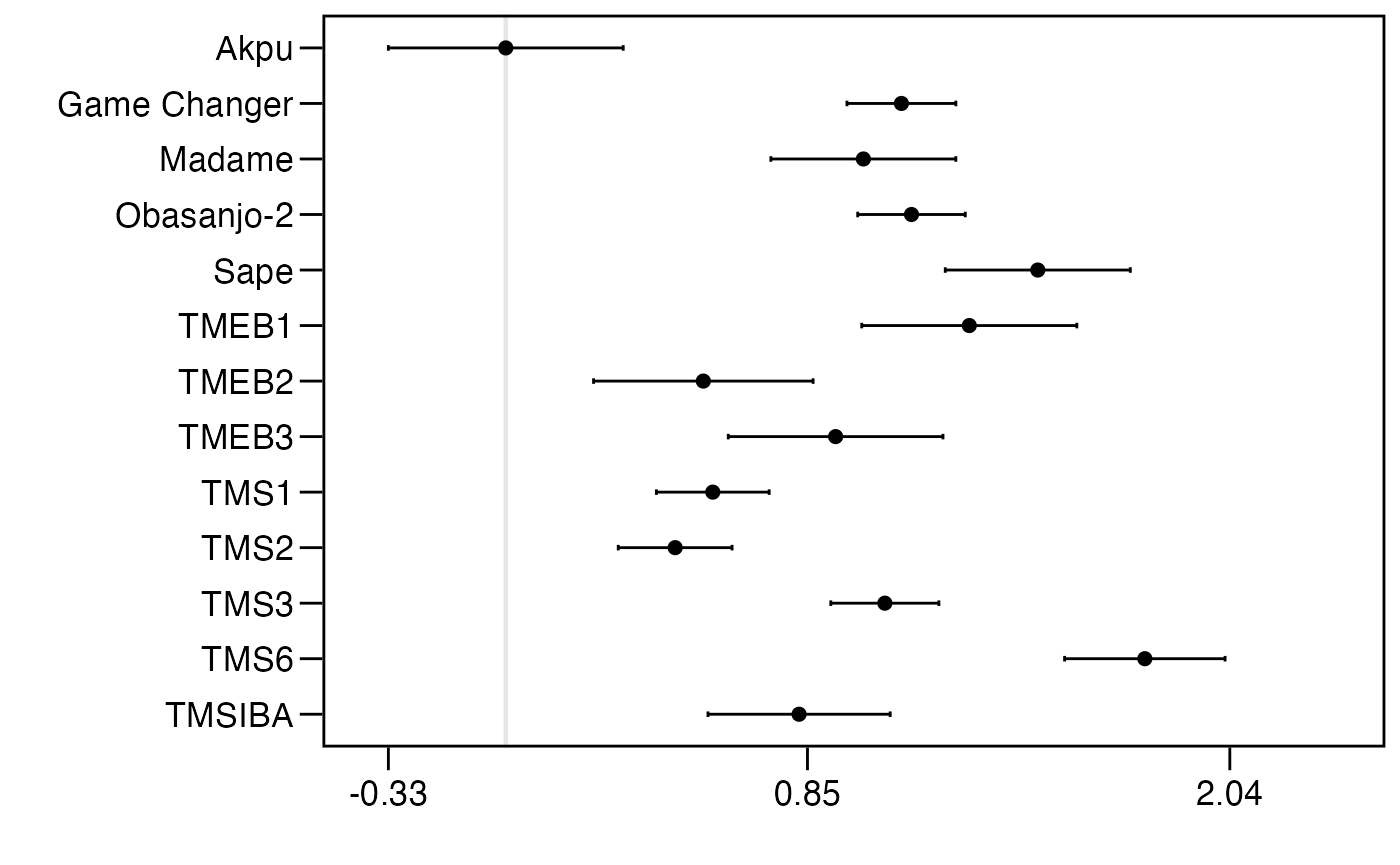
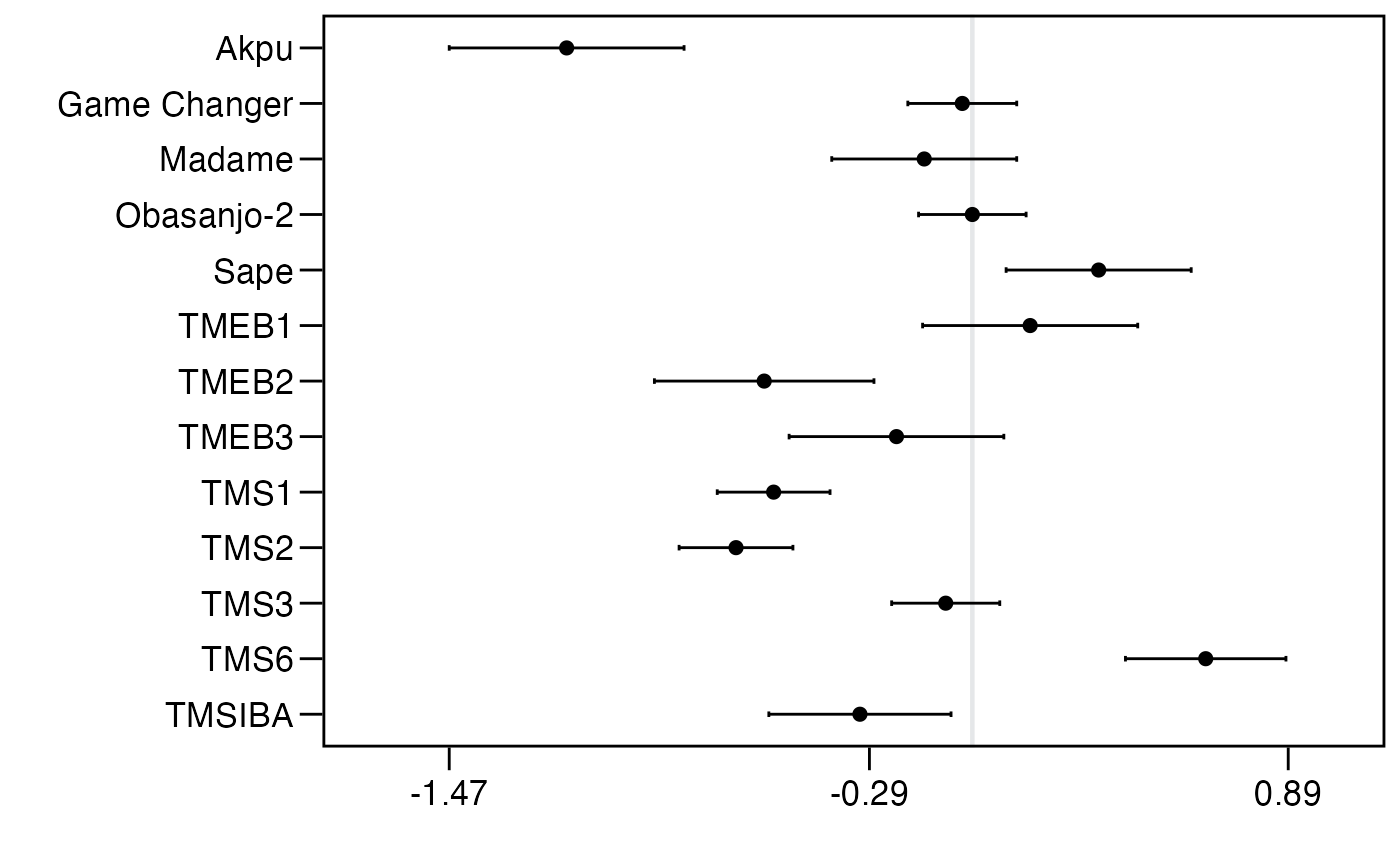
update-cassava-vignette

diff --git a/docs/articles/vignette-2-gari-eba-consumer-testing.html b/docs/articles/vignette-2-gari-eba-consumer-testing.html
@@ -203,13 +203,13 @@ dataset, the pattern for the best and worst rankings is
 <p>Here, we perform some data preparation by defining the column indices
 for the variables with the cassava sample names, the names of varieties
 tested in the study, and the position of “Overall” within the trait
-list.</p>
+list. We set Obasanjo-2 as the check variety.</p>
 <div class="sourceCode" id="cb7"><pre class="downlit sourceCode r">
 <code class="sourceCode R"><span><span class="va">pack</span> <span class="op">=</span> <span class="fu"><a href="https://rdrr.io/r/base/c.html" class="external-link">c</a></span><span class="op">(</span><span class="st">"option_a"</span>, <span class="st">"option_b"</span>, <span class="st">"option_c"</span><span class="op">)</span></span>
 <span></span>
 <span><span class="va">items</span> <span class="op">=</span> <span class="fu"><a href="https://rdrr.io/r/base/sort.html" class="external-link">sort</a></span><span class="op">(</span><span class="fu"><a href="https://rdrr.io/r/base/unique.html" class="external-link">unique</a></span><span class="op">(</span><span class="fu"><a href="https://rdrr.io/r/base/unlist.html" class="external-link">unlist</a></span><span class="op">(</span><span class="va">dat</span><span class="op">[</span><span class="va">pack</span><span class="op">]</span><span class="op">)</span><span class="op">)</span><span class="op">)</span></span>
 <span></span>
-<span><span class="va">ref</span> <span class="op">=</span> <span class="st">"Akpu"</span></span>
+<span><span class="va">check</span> <span class="op">=</span> <span class="st">"Obasanjo-2"</span></span>
 <span></span>
 <span><span class="va">ov</span> <span class="op">=</span> <span class="fu"><a href="https://rdrr.io/r/base/which.html" class="external-link">which</a></span><span class="op">(</span><span class="va">traits</span> <span class="op"><a href="https://rdrr.io/r/base/match.html" class="external-link">%in%</a></span> <span class="st">"Overall"</span><span class="op">)</span></span></code></pre></div>
 </div>
@@ -234,27 +234,33 @@ trait. First, we focus on the overall preference. We use the function
 <code><a href="https://rdrr.io/r/graphics/plot.default.html" class="external-link">plot()</a></code> to visualize the Plackett-Luce estimates as
 <em>log-worth</em> parameters using the argument
 <code>log = TRUE</code>. The argument <code>levels =</code> establishes
-the order of the varieties in the plot. We set Akpu as the
-reference.</p>
+the order of the varieties in the plot.</p>
 <div class="sourceCode" id="cb9"><pre class="downlit sourceCode r">
 <code class="sourceCode R"><span><span class="va">mod</span> <span class="op">=</span> <span class="fu"><a href="https://rdrr.io/r/base/lapply.html" class="external-link">lapply</a></span><span class="op">(</span><span class="va">R</span>, <span class="va">PlackettLuce</span><span class="op">)</span></span>
 <span></span>
 <span><span class="fu"><a href="https://rdrr.io/r/graphics/plot.default.html" class="external-link">plot</a></span><span class="op">(</span><span class="va">mod</span><span class="op">[[</span><span class="va">ov</span><span class="op">]</span><span class="op">]</span>,</span>
-<span>     ref <span class="op">=</span> <span class="va">ref</span>,</span>
+<span>     ref <span class="op">=</span> <span class="va">check</span>,</span>
 <span>     log <span class="op">=</span> <span class="cn">TRUE</span>,</span>
 <span>     levels <span class="op">=</span> <span class="fu"><a href="https://rdrr.io/r/base/rev.html" class="external-link">rev</a></span><span class="op">(</span><span class="va">items</span><span class="op">)</span><span class="op">)</span></span></code></pre></div>
 <p><img src="vignette-2-gari-eba-consumer-testing_files/figure-html/plfit-1.png" width="700"></p>
-<p>The plot shows that all varieties outperform Akpu for overall
-preference. We use the function <code><a href="../reference/reliability.html">reliability()</a></code> to identify
-the probability that each variety outperforms the reference Akpu <span class="citation">[8]</span>. The function returns a data frame with the
+<p>The plot shows that the varieties TMS6, Sape and TMEB1 outperform
+Obasanjo-2 for overall preference. We use the function
+<code><a href="../reference/reliability.html">reliability()</a></code> to identify the improvement achieved by these
+varieties against reference Obasanjo-2 <span class="citation">[8]</span>. The function returns a data frame with the
 reliability estimates, where values above 0.5 indicates that the variety
 outperforms the reference. We plot these results using
 <code><a href="https://ggplot2.tidyverse.org/reference/ggplot.html" class="external-link">ggplot()</a></code>.</p>
 <div class="sourceCode" id="cb10"><pre class="downlit sourceCode r">
-<code class="sourceCode R"><span><span class="va">rel</span> <span class="op">=</span> <span class="fu"><a href="../reference/reliability.html">reliability</a></span><span class="op">(</span><span class="va">mod</span><span class="op">[[</span><span class="va">ov</span><span class="op">]</span><span class="op">]</span>, ref <span class="op">=</span> <span class="st">"Akpu"</span><span class="op">)</span></span>
+<code class="sourceCode R"><span><span class="va">rel</span> <span class="op">=</span> <span class="fu"><a href="../reference/reliability.html">reliability</a></span><span class="op">(</span><span class="va">mod</span><span class="op">[[</span><span class="va">ov</span><span class="op">]</span><span class="op">]</span>, ref <span class="op">=</span> <span class="va">check</span><span class="op">)</span></span>
+<span></span>
+<span><span class="va">rel</span><span class="op">$</span><span class="va">improvement</span> <span class="op">=</span> <span class="fu"><a href="https://rdrr.io/r/base/Round.html" class="external-link">round</a></span><span class="op">(</span><span class="op">(</span><span class="va">rel</span><span class="op">$</span><span class="va">reliability</span> <span class="op">/</span> <span class="fl">0.5</span> <span class="op">-</span> <span class="fl">1</span><span class="op">)</span>, <span class="fl">2</span><span class="op">)</span></span>
+<span></span>
+<span><span class="va">rel</span> <span class="op">=</span> <span class="va">rel</span><span class="op">[</span><span class="fu"><a href="https://rdrr.io/r/base/order.html" class="external-link">order</a></span><span class="op">(</span><span class="va">rel</span><span class="op">$</span><span class="va">improvement</span><span class="op">)</span>, <span class="op">]</span></span>
+<span></span>
+<span><span class="va">rel</span><span class="op">$</span><span class="va">item</span> <span class="op">=</span> <span class="fu"><a href="https://rdrr.io/r/base/factor.html" class="external-link">factor</a></span><span class="op">(</span><span class="va">rel</span><span class="op">$</span><span class="va">item</span>, levels <span class="op">=</span> <span class="va">rel</span><span class="op">$</span><span class="va">item</span><span class="op">)</span></span>
 <span></span>
 <span><span class="fu"><a href="https://ggplot2.tidyverse.org/reference/ggplot.html" class="external-link">ggplot</a></span><span class="op">(</span>data <span class="op">=</span> <span class="va">rel</span>,</span>
-<span>       <span class="fu"><a href="https://ggplot2.tidyverse.org/reference/aes.html" class="external-link">aes</a></span><span class="op">(</span>x <span class="op">=</span> <span class="va">reliability</span>, </span>
+<span>       <span class="fu"><a href="https://ggplot2.tidyverse.org/reference/aes.html" class="external-link">aes</a></span><span class="op">(</span>x <span class="op">=</span> <span class="va">improvement</span>, </span>
 <span>           y <span class="op">=</span> <span class="va">item</span>,</span>
 <span>           fill <span class="op">=</span> <span class="st">"white"</span><span class="op">)</span><span class="op">)</span> <span class="op">+</span></span>
 <span>  <span class="fu"><a href="https://ggplot2.tidyverse.org/reference/geom_bar.html" class="external-link">geom_bar</a></span><span class="op">(</span>stat <span class="op">=</span> <span class="st">"identity"</span>,</span>
@@ -262,21 +268,21 @@ outperforms the reference. We plot these results using
 <span>           position <span class="op">=</span> <span class="st">"dodge"</span>, </span>
 <span>           show.legend <span class="op">=</span> <span class="cn">FALSE</span><span class="op">)</span> <span class="op">+</span></span>
 <span>  <span class="fu"><a href="https://ggplot2.tidyverse.org/reference/scale_manual.html" class="external-link">scale_fill_manual</a></span><span class="op">(</span>values <span class="op">=</span> <span class="st">"#5aae61"</span><span class="op">)</span> <span class="op">+</span></span>
-<span>  <span class="fu"><a href="https://ggplot2.tidyverse.org/reference/geom_abline.html" class="external-link">geom_vline</a></span><span class="op">(</span>xintercept <span class="op">=</span> <span class="fl">0.5</span>,</span>
+<span>  <span class="fu"><a href="https://ggplot2.tidyverse.org/reference/geom_abline.html" class="external-link">geom_vline</a></span><span class="op">(</span>xintercept <span class="op">=</span> <span class="fl">0</span>,</span>
 <span>             colour <span class="op">=</span> <span class="st">"grey40"</span>,</span>
 <span>             linewidth <span class="op">=</span> <span class="fl">1</span><span class="op">)</span> <span class="op">+</span></span>
 <span>  <span class="fu"><a href="https://ggplot2.tidyverse.org/reference/ggtheme.html" class="external-link">theme_classic</a></span><span class="op">(</span><span class="op">)</span> <span class="op">+</span></span>
 <span>  <span class="fu"><a href="https://ggplot2.tidyverse.org/reference/labs.html" class="external-link">labs</a></span><span class="op">(</span>x <span class="op">=</span> <span class="st">"Probability of outperforming"</span>,</span>
 <span>       y <span class="op">=</span> <span class="st">""</span><span class="op">)</span></span></code></pre></div>
 <p><img src="vignette-2-gari-eba-consumer-testing_files/figure-html/reliability-1.png" width="700"></p>
-<p>The reliability estimates shows the TMS6 and Sape as the top-2
-varieties for overall preference. So far, we have focused solely on the
-overall preference. However, there are other traits to assess. The
-function <code>worth_plot()</code> can be used to visually analyze and
-compare variety performance across different traits. The values
-represented in a worth map are <em>log-worth</em> estimates. The
-function can be used with <code>ggplot2</code> functions to improve the
-plot.</p>
+<p>The reliability estimates shows an improvement in overall preference
+of 32% for TMS6, 18% for Sape and 8% for TMEB1.</p>
+<p>So far, we have focused solely on the overall preference. However,
+there are other traits to assess. The function <code>worth_plot()</code>
+can be used to visually analyze and compare variety performance across
+different traits. The values represented in a worth map are
+<em>log-worth</em> estimates. The function can be used with
+<code>ggplot2</code> functions to improve the plot.</p>
 <div class="sourceCode" id="cb11"><pre class="downlit sourceCode r">
 <code class="sourceCode R"><span><span class="fu"><a href="../reference/worth_map.html">worth_map</a></span><span class="op">(</span><span class="va">mod</span>, labels <span class="op">=</span> <span class="va">traits</span><span class="op">)</span> <span class="op">+</span></span>
 <span>  <span class="fu"><a href="https://ggplot2.tidyverse.org/reference/labs.html" class="external-link">labs</a></span><span class="op">(</span>x <span class="op">=</span> <span class="st">""</span>, y <span class="op">=</span> <span class="st">""</span><span class="op">)</span> <span class="op">+</span></span>
@@ -285,11 +291,12 @@ plot.</p>
 <span>                       na.value <span class="op">=</span> <span class="st">"white"</span>, </span>
 <span>                       name <span class="op">=</span> <span class="st">""</span><span class="op">)</span></span></code></pre></div>
 <p><img src="vignette-2-gari-eba-consumer-testing_files/figure-html/worth-1.png" width="700"></p>
-<p>The worth map shows the superiority of TMS6, TMEB2, and Sape across
-the traits. We will return to this analysis later, but for now, let us
-examine the data from the perspective of different groups to consider
-heterogeneity in the participants’ evaluations, as proposed by van Etten
-et al. (2023) <span class="citation">[9]</span>.</p>
+<p>The worth map confirms the superiority of TMS6, Sape and TMEB1 across
+the traits, but also presents Madame among the top varieties for color.
+We will return to this analysis later, but for now, let us examine the
+data from the perspective of different groups to consider heterogeneity
+in the participants’ evaluations, as proposed by van Etten et al. (2023)
+<span class="citation">[9]</span>.</p>
 </div>
 <div class="section level2">
 <h2 id="participants-heterogeneity">Participants’ heterogeneity<a class="anchor" aria-label="anchor" href="#participants-heterogeneity"></a>
@@ -341,7 +348,7 @@ et al. (2024) <span class="citation">[10]</span>. For simplicity, we
 focus here only on the variable “country.”</p>
 <p>Now, returning to the worth map analysis, we can visualize the
 performance of the varieties within the groups. We iterate over the
-groups by subsetting the data in a loop. Within the loop, we create the
+groups by sub-setting the data in a loop. Within the loop, we create the
 plots and store them in a list. Finally, we use the
 <code>patchwork</code> package to display the two worth maps.</p>
 <div class="sourceCode" id="cb16"><pre class="downlit sourceCode r">
@@ -378,12 +385,15 @@ plots and store them in a list. Finally, we use the
 <span><span class="co"># plot the two maps using patchwork</span></span>
 <span><span class="va">trait_plot</span><span class="op">[[</span><span class="fl">1</span><span class="op">]</span><span class="op">]</span> <span class="op">+</span> <span class="va">trait_plot</span><span class="op">[[</span><span class="fl">2</span><span class="op">]</span><span class="op">]</span> <span class="op">+</span> <span class="fu"><a href="https://patchwork.data-imaginist.com/reference/plot_layout.html" class="external-link">plot_layout</a></span><span class="op">(</span>ncol <span class="op">=</span> <span class="fl">1</span><span class="op">)</span></span></code></pre></div>
 <p><img src="vignette-2-gari-eba-consumer-testing_files/figure-html/worth2-1.png" width="700"></p>
-<p>The plots show the superiority of TMS6 and TMEB1 in Nigeria, as well
-as the superiority of Game Changer and Sape in Cameroon. This approach
-helps visually select the best variety overall for each group. Here, I
-propose a selection index approach to calculate weighted estimates and
-derive a selection score that represents the performance of the
-varieties across all traits.</p>
+<p>The segmented analysis reveals contrasting results compared to the
+previous analysis using the full dataset. It highlights the superiority
+of TMS6 and TMEB1 in Nigeria, and Game Changer and Sape in Cameroon.
+This approach provides a visual method to select the best variety
+overall for each group. To account for all traits in a data-driven
+manner when selecting varieties, I propose a selection index approach.
+This method calculates weighted estimates and derives a selection score
+that represents the overall performance of the varieties across all
+traits.</p>
 <p>Suppose we have three varieties with standardized probabilities for
 each trait:</p>
 <table class="table">
@@ -397,8 +407,8 @@ each trait:</p>
 <thead><tr class="header">
 <th>Variety</th>
 <th>Yield (0.5)</th>
-<th>Drought tolerance (0.3)</th>
-<th>Resistance to pests (0.2)</th>
+<th>Marketability (0.3)</th>
+<th>Tolerance to drought (0.2)</th>
 <th>Selection Index Score</th>
 </tr></thead>
 <tbody>
@@ -433,9 +443,9 @@ each trait:</p>
 </table>
 <p>Here, <em>Variety 1</em> would have the highest selection index
 score, making it a top choice based on this weighted approach.</p>
-<p>For this illustration, I arbitrarily set the weights for each trait
-as follows: color = 0.2, stretchability = 0.2, taste = 0.3, and overall
-= 0.3. We iterate over the groups in a loop, storing the model
+<p>For this example, I arbitrarily set the weights for each gari-eba
+trait as follows: color = 0.2, stretchability = 0.2, taste = 0.3, and
+overall = 0.3. We iterate over the groups in a loop, storing the model
 coefficients in a data frame for visualization with
 <code>ggplot</code>.</p>
 <div class="sourceCode" id="cb17"><pre class="downlit sourceCode r">
@@ -490,7 +500,12 @@ coefficients in a data frame for visualization with
 <p><img src="vignette-2-gari-eba-consumer-testing_files/figure-html/selection-1.png" width="700"></p>
 <p>The selection score indicates that the superior varieties for Nigeria
 are TMS6, TMEB1, and TMS3, while for Cameroon, the varieties Game
-Changer, Sape, and Madame demonstrate superior performance.</p>
+Changer, Sape, and Madame demonstrate superior performance. This
+approach contrasts with the previous analysis based solely on overall
+preference and the visualization provided by the worth map. By
+considering the heterogeneity of consumer preferences, it enables the
+identification of the best varieties for specific groups and market
+segments.</p>
 </div>
 <div class="section level2">
 <h2 id="conclusion">Conclusion<a class="anchor" aria-label="anchor" href="#conclusion"></a>
